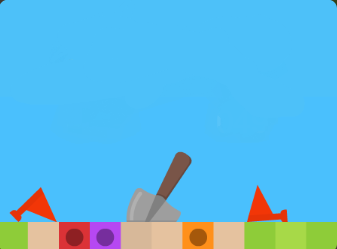
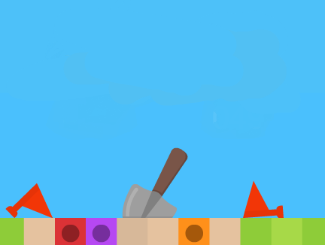
Xử lý kết thúc game

diff --git a/src/main/java/org/game/Minesweeper/Game.java b/src/main/java/org/game/Minesweeper/Game.java
@@ -1,24 +1,25 @@
 package org.game.Minesweeper;
 
-import java.awt.BorderLayout;
-
-import javax.swing.ImageIcon;
-import javax.swing.JFrame;
-import javax.swing.JLabel;
-import javax.swing.JPanel;
+import javax.swing.*;
+import java.awt.*;
+import java.awt.event.MouseAdapter;
+import java.awt.event.MouseEvent;
 
 public class Game {
 	
-	private JFrame f;
+	private final JFrame f;
 	
-	public Game(int diff) {
+	public Game() {
 		f = new JFrame();
 		f.setDefaultCloseOperation(JFrame.EXIT_ON_CLOSE);
+		f.setResizable(false);
 		f.setLayout(new BorderLayout());
-		
-		setGame(diff);
 	}
 	
+	public JFrame getMainGame() {
+		return f;
+	}
+
 	public void setGame(int diff) {
 		setAttribute(diff);
 		Global.diff = diff;
@@ -44,21 +45,41 @@ public class Game {
 		}
 	}
 
-	private JFrame showMessage(String state, String image) {
-		JFrame frame = new JFrame();
-
-		frame.setTitle(state);
-        frame.setDefaultCloseOperation(JFrame.EXIT_ON_CLOSE);
-//        frame.setLocationRelativeTo(null); // Căn giữa màn hình
+	private void showMessage(String state, String image) {
+//		JDialog message = new JDialog(f, state, true);
+		JDialog message = new JDialog(f, state);
+        message.setDefaultCloseOperation(JDialog.DO_NOTHING_ON_CLOSE);
+        message.setLayout(new BorderLayout());
 
         // Thêm hình ảnh vào JLabel
         ImageIcon imageIcon = new ImageIcon(image);
         JLabel label = new JLabel(imageIcon);
-        frame.add(label);
+        message.add(label, BorderLayout.CENTER);
+        
+        JButton tryAgain = new JButton();
+        tryAgain.setPreferredSize(new Dimension(325, 50));
+        tryAgain.setBackground(new Color(74, 117, 44));
+        tryAgain.setFocusPainted(false);
+        tryAgain.setBorderPainted(false);
+        tryAgain.setText(state.equals("You win") ? "Play Again" : "Try Again");
+        tryAgain.setForeground(Color.white);
+        tryAgain.setFont(new Font(Global.numberFont, Font.PLAIN, Global.fontSize));
+        
+        tryAgain.addMouseListener(new MouseAdapter() {
+        	public void mousePressed(MouseEvent e) {
+        		message.dispose();
+        		setGame(Global.diff);
+        	}
+        });
+        message.add(tryAgain, BorderLayout.SOUTH);
 
-		frame.pack();
-        frame.setVisible(true);
-		return frame;
+		message.pack();
+		
+		int x = f.getX() + (f.getWidth() - message.getWidth()) / 2;
+        int y = f.getY() + (f.getHeight() - message.getHeight()) / 2;
+        message.setLocation(x, y);
+		
+        message.setVisible(true);
 	}
 
 	public void winGame() {

diff --git a/src/main/java/org/game/Minesweeper/Board_2_0.java b/src/main/java/org/game/Minesweeper/Board_2_0.java
@@ -2,7 +2,7 @@ package org.game.Minesweeper;
 
 public class Board_2_0 extends Board {
 	
-	private Game game;
+	private final Game game;
 
 	public Board_2_0(Taskbar bar, Game game) {
 		super(bar);
@@ -11,16 +11,17 @@ public class Board_2_0 extends Board {
 	
 	@Override
 	public void checkEndGame(int x, int y) {
+		if(super.getSquare(x, y).getText().equals(Global.flag)) {
+			return;
+		}
+		
+		super.checkEndGame(x, y);
+		
 		if (logic.getValueCell(x, y) == -1) {
-            super.checkEndGame(x, y);
-            
-            // Gọi game show giao diện thua
             game.loseGame();
         }
 		
 		if (logic.isSafe()) {
-            super.checkEndGame(x, y);
-            // Gọi game show giao diện thắng
             game.winGame();
         }
 	}

diff --git a/src/main/java/org/game/Minesweeper/Board.java b/src/main/java/org/game/Minesweeper/Board.java
@@ -6,10 +6,10 @@ import javax.swing.JPanel;
 
 public class Board {
 	final Logic logic;
-	private Square[][] board;
+	private final Square[][] board;
 
 	private int numberFlag = 0;
-	private JPanel panel;
+	private final JPanel panel;
 
 	public Board(Taskbar bar) {
 		logic = new Logic();
@@ -75,13 +75,11 @@ public class Board {
 		}
 		
 		if (logic.getValueCell(x, y) == -1) {
-			System.out.println("You Lose");
 			showAllMine();
 			endGame();
 		}
 
 		if (logic.isSafe()) {
-			System.out.println("You Win");
 			endGame();
 		}
 	}

diff --git a/src/main/java/org/game/Minesweeper/App.java b/src/main/java/org/game/Minesweeper/App.java
@@ -3,7 +3,7 @@ package org.game.Minesweeper;
 public class App {
 	public static void main(String[] args) {
 		System.setProperty("sun.java2d.uiScale", "1.0");
-		
-		new Game(1);
+		Global.diff = 1;
+		new Game().setGame(Global.diff);
 	}
 }
